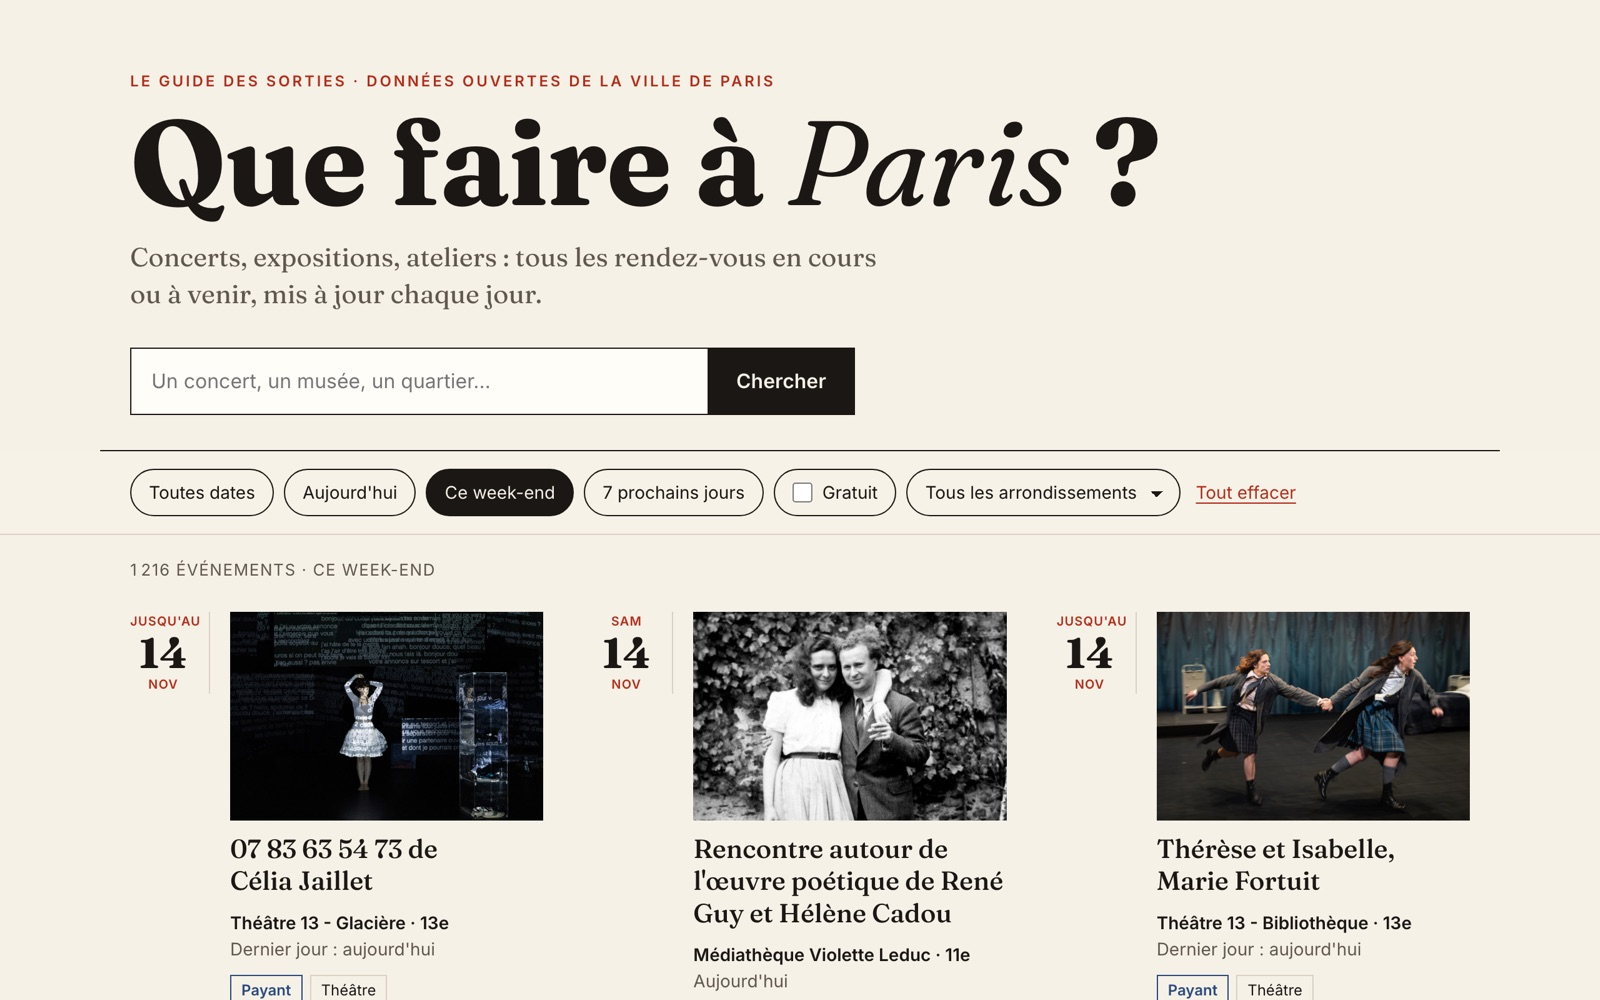
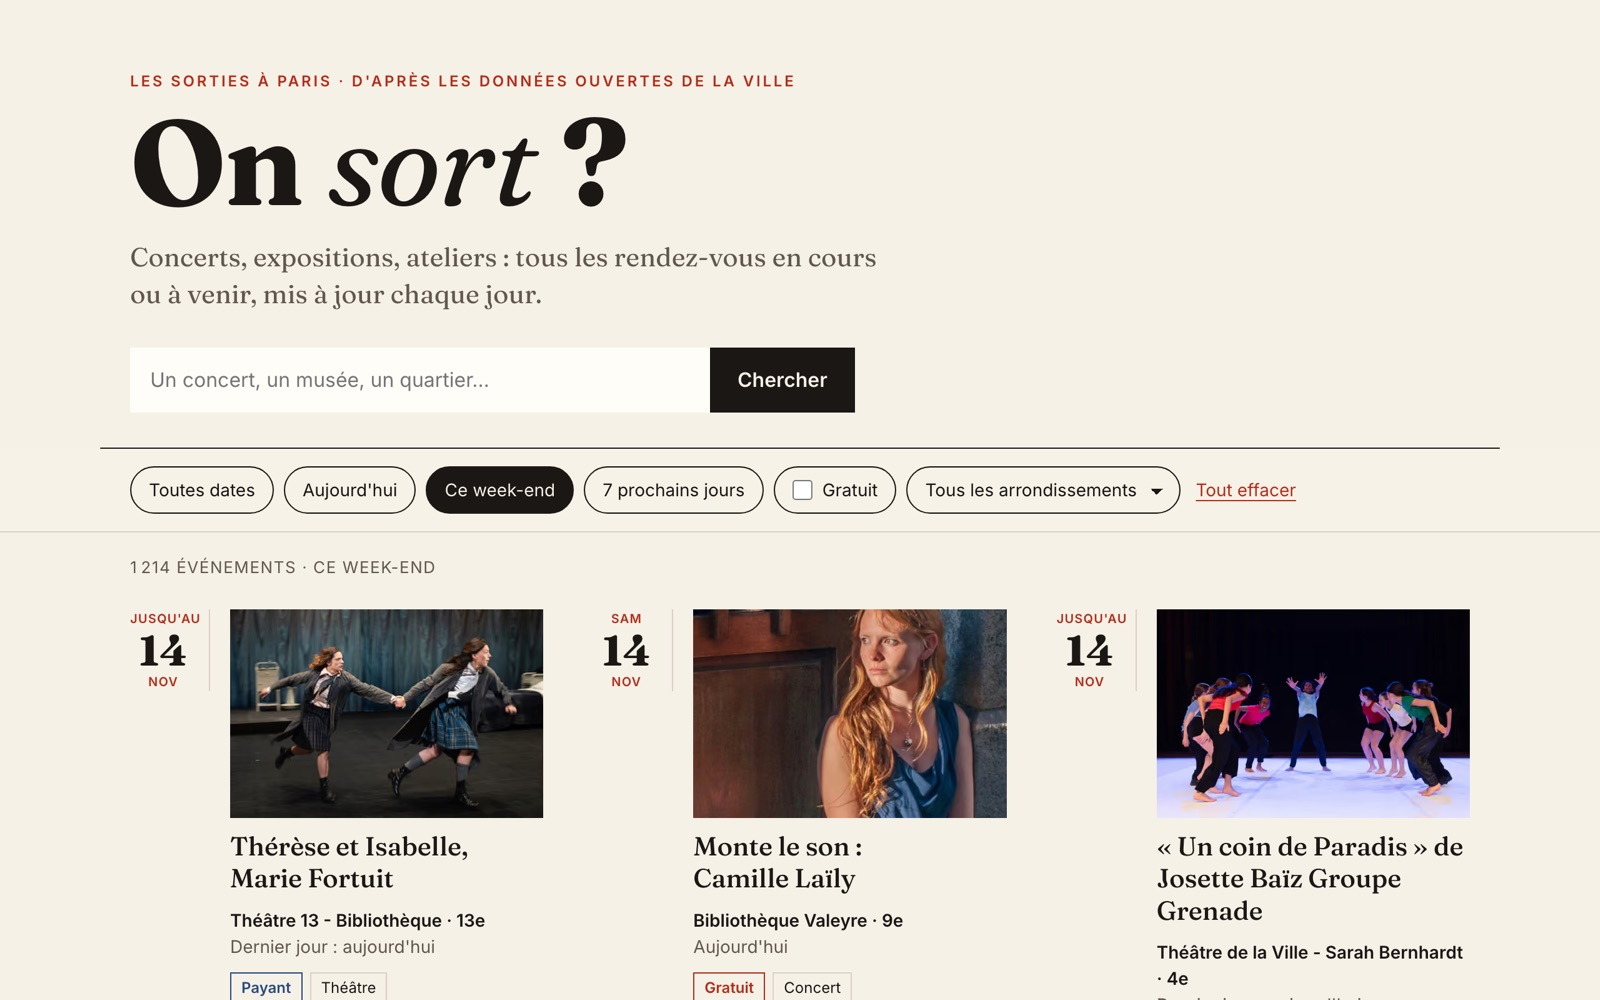
On sort ? (ex-Que faire à Paris) : carte renommée, texte mis à jour (80 tests, Lighthouse 97 à 100), nouvelle vignette

diff --git a/lib/data.ts b/lib/data.ts
@@ -62,9 +62,9 @@ export const projects: Project[] = [
   // },
   {
     id: "adataviz",
-    title: "Que faire à Paris",
+    title: "On sort ?",
     description:
-      "Que faire ce week-end, gratuitement, dans le 11e ? L'app répond en un clic parmi plus de 3 000 concerts, expos et ateliers, à partir des données ouvertes de la Ville, en direct. Recherche, filtres par date, prix, arrondissement et thème, lien partageable. Sans framework, volontairement : un besoin simple, une app légère. 57 tests.",
+      "Que faire ce week-end, gratuitement, dans le 11e ? L'app répond en un clic parmi plus de 3 000 concerts, expos et ateliers, à partir des données ouvertes de la Ville, en direct. Filtres par date, prix, arrondissement et thème, lien partageable, mise en page façon agenda de magazine. Sans framework, volontairement : 80 tests, Lighthouse 97 à 100.",
     stack: ["JavaScript", "Vite", "Open Data Paris", "Vitest"],
     liveUrl: "https://adataviz-patphiletas.vercel.app/",
     githubUrl: "https://github.com/patphiletas/adataviz-patphiletas",
